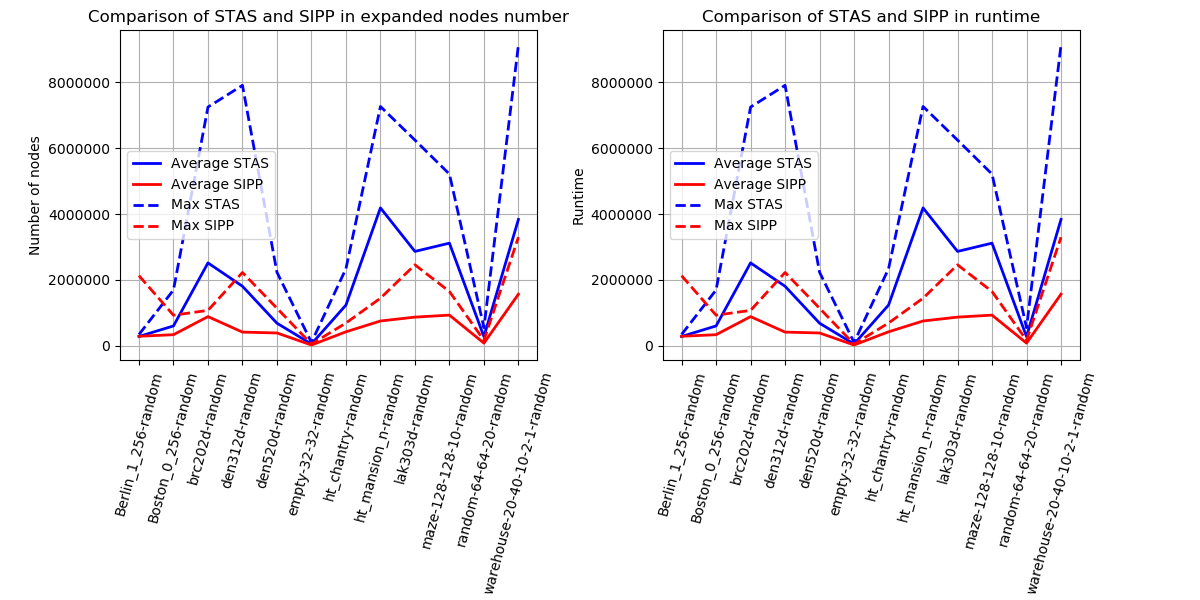
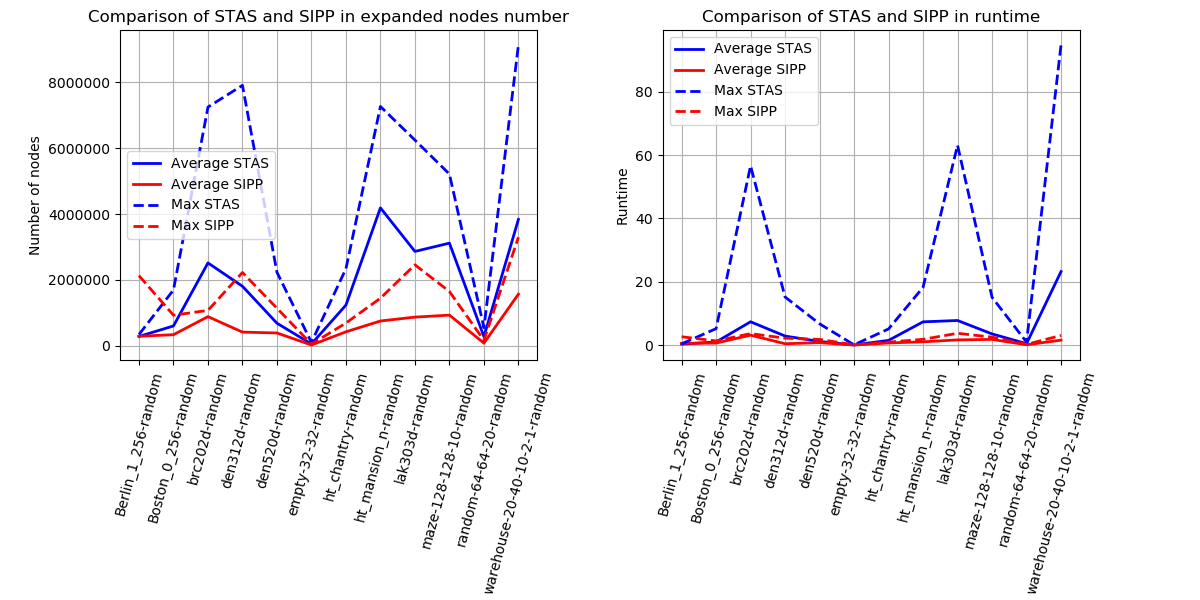
Repaired the runtime in experiment 1

Changed region(s): [[0.4625, 0.21, 0.8942, 0.6], [0.4933, 0.06, 0.6783, 0.21], [0.8633, 0.12, 0.8942, 0.18]]

diff --git a/experiments/sipp_vs_astar/parse_results.py b/experiments/sipp_vs_astar/parse_results.py
@@ -12,7 +12,7 @@ def read_file(name):
           lines.append(line)
     return lines
 
-file_res = read_file("results.csv")
+file_res = read_file("results_init_sol.csv")
 col_names = file_res[0]
 file_res = file_res[1:]
 
@@ -41,8 +41,8 @@ for i in maps_rng:
     map_names.append(name)
     expanded_nodes_STAS = np.asarray([float(x[10]) for x in res_STAS[20*i:20*(i+1)]])
     expanded_nodes_SIPP = np.asarray([float(x[10]) for x in res_SIPP[20*i:20*(i+1)]])
-    runtime_STAS = np.asarray([float(x[10]) for x in res_STAS[20*i:20*(i+1)]])
-    runtime_SIPP = np.asarray([float(x[10]) for x in res_SIPP[20*i:20*(i+1)]])
+    runtime_STAS = np.asarray([float(x[7]) for x in res_STAS[20*i:20*(i+1)]])
+    runtime_SIPP = np.asarray([float(x[7]) for x in res_SIPP[20*i:20*(i+1)]])
     sipp_better = expanded_nodes_SIPP - expanded_nodes_STAS < 0
     stas_better = expanded_nodes_SIPP - expanded_nodes_STAS > 0
     print("SIPP better in terms of expanded nodes", sipp_better.sum(), "times.")
